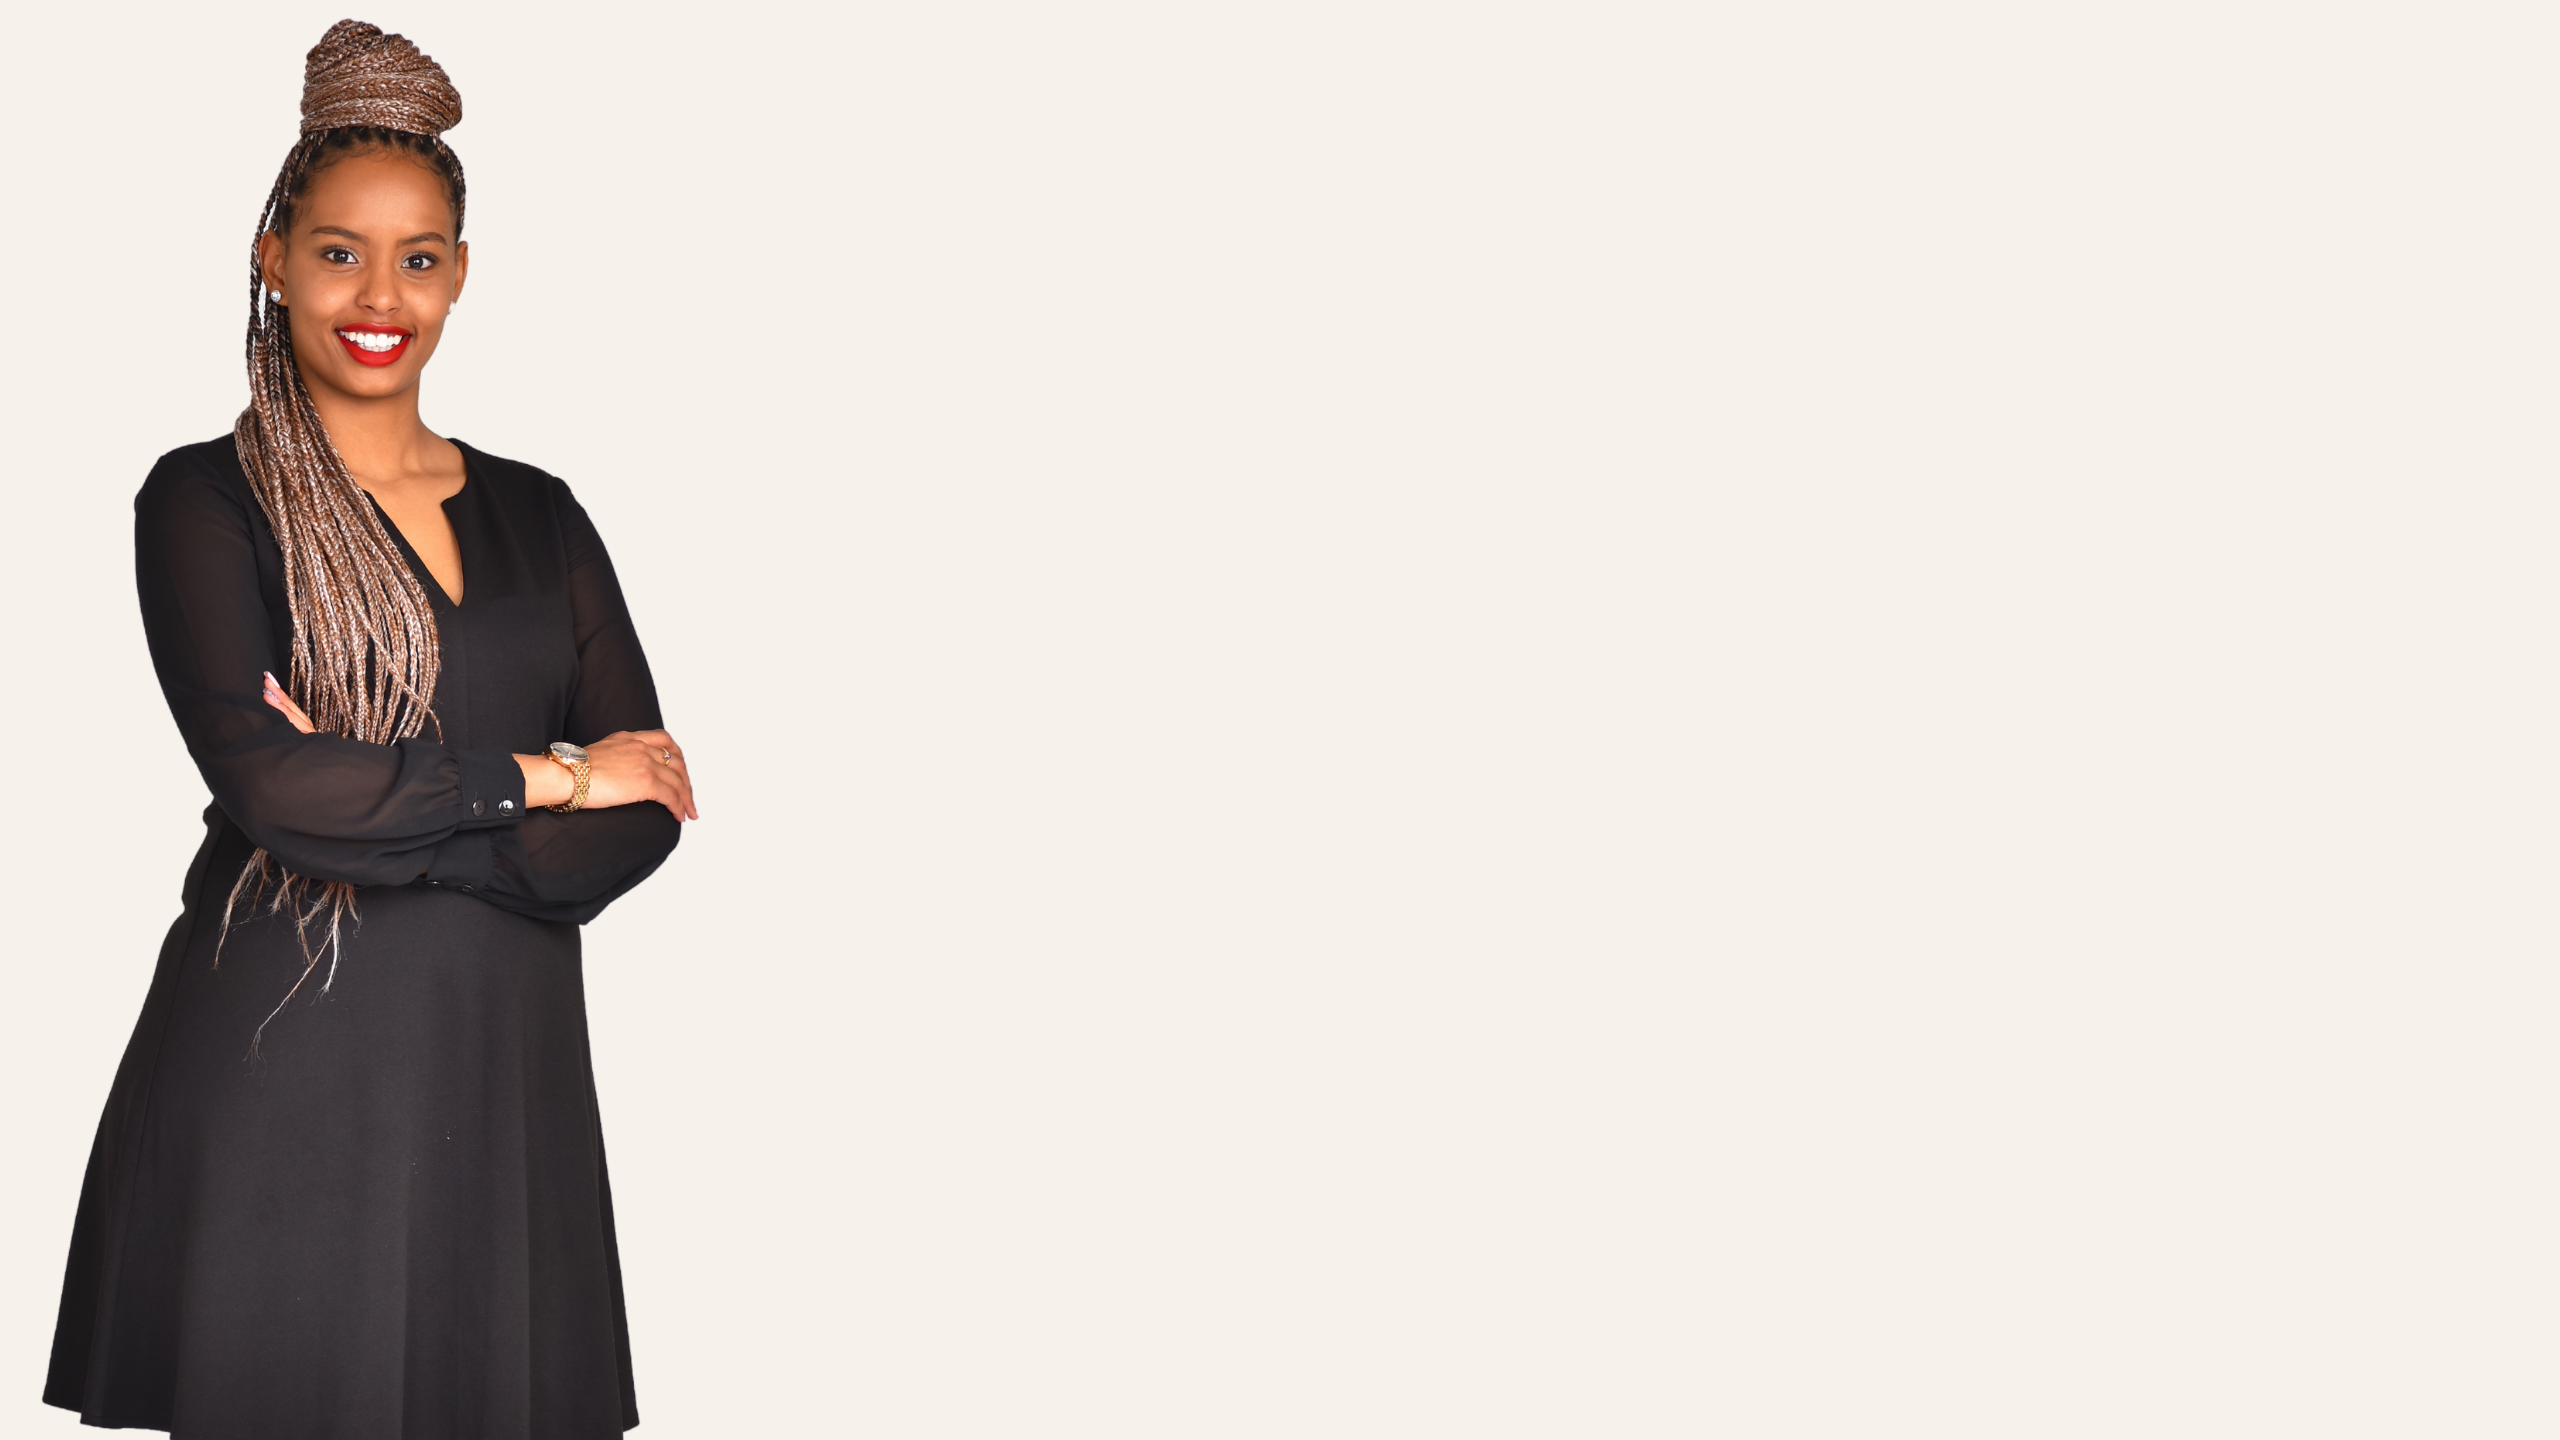
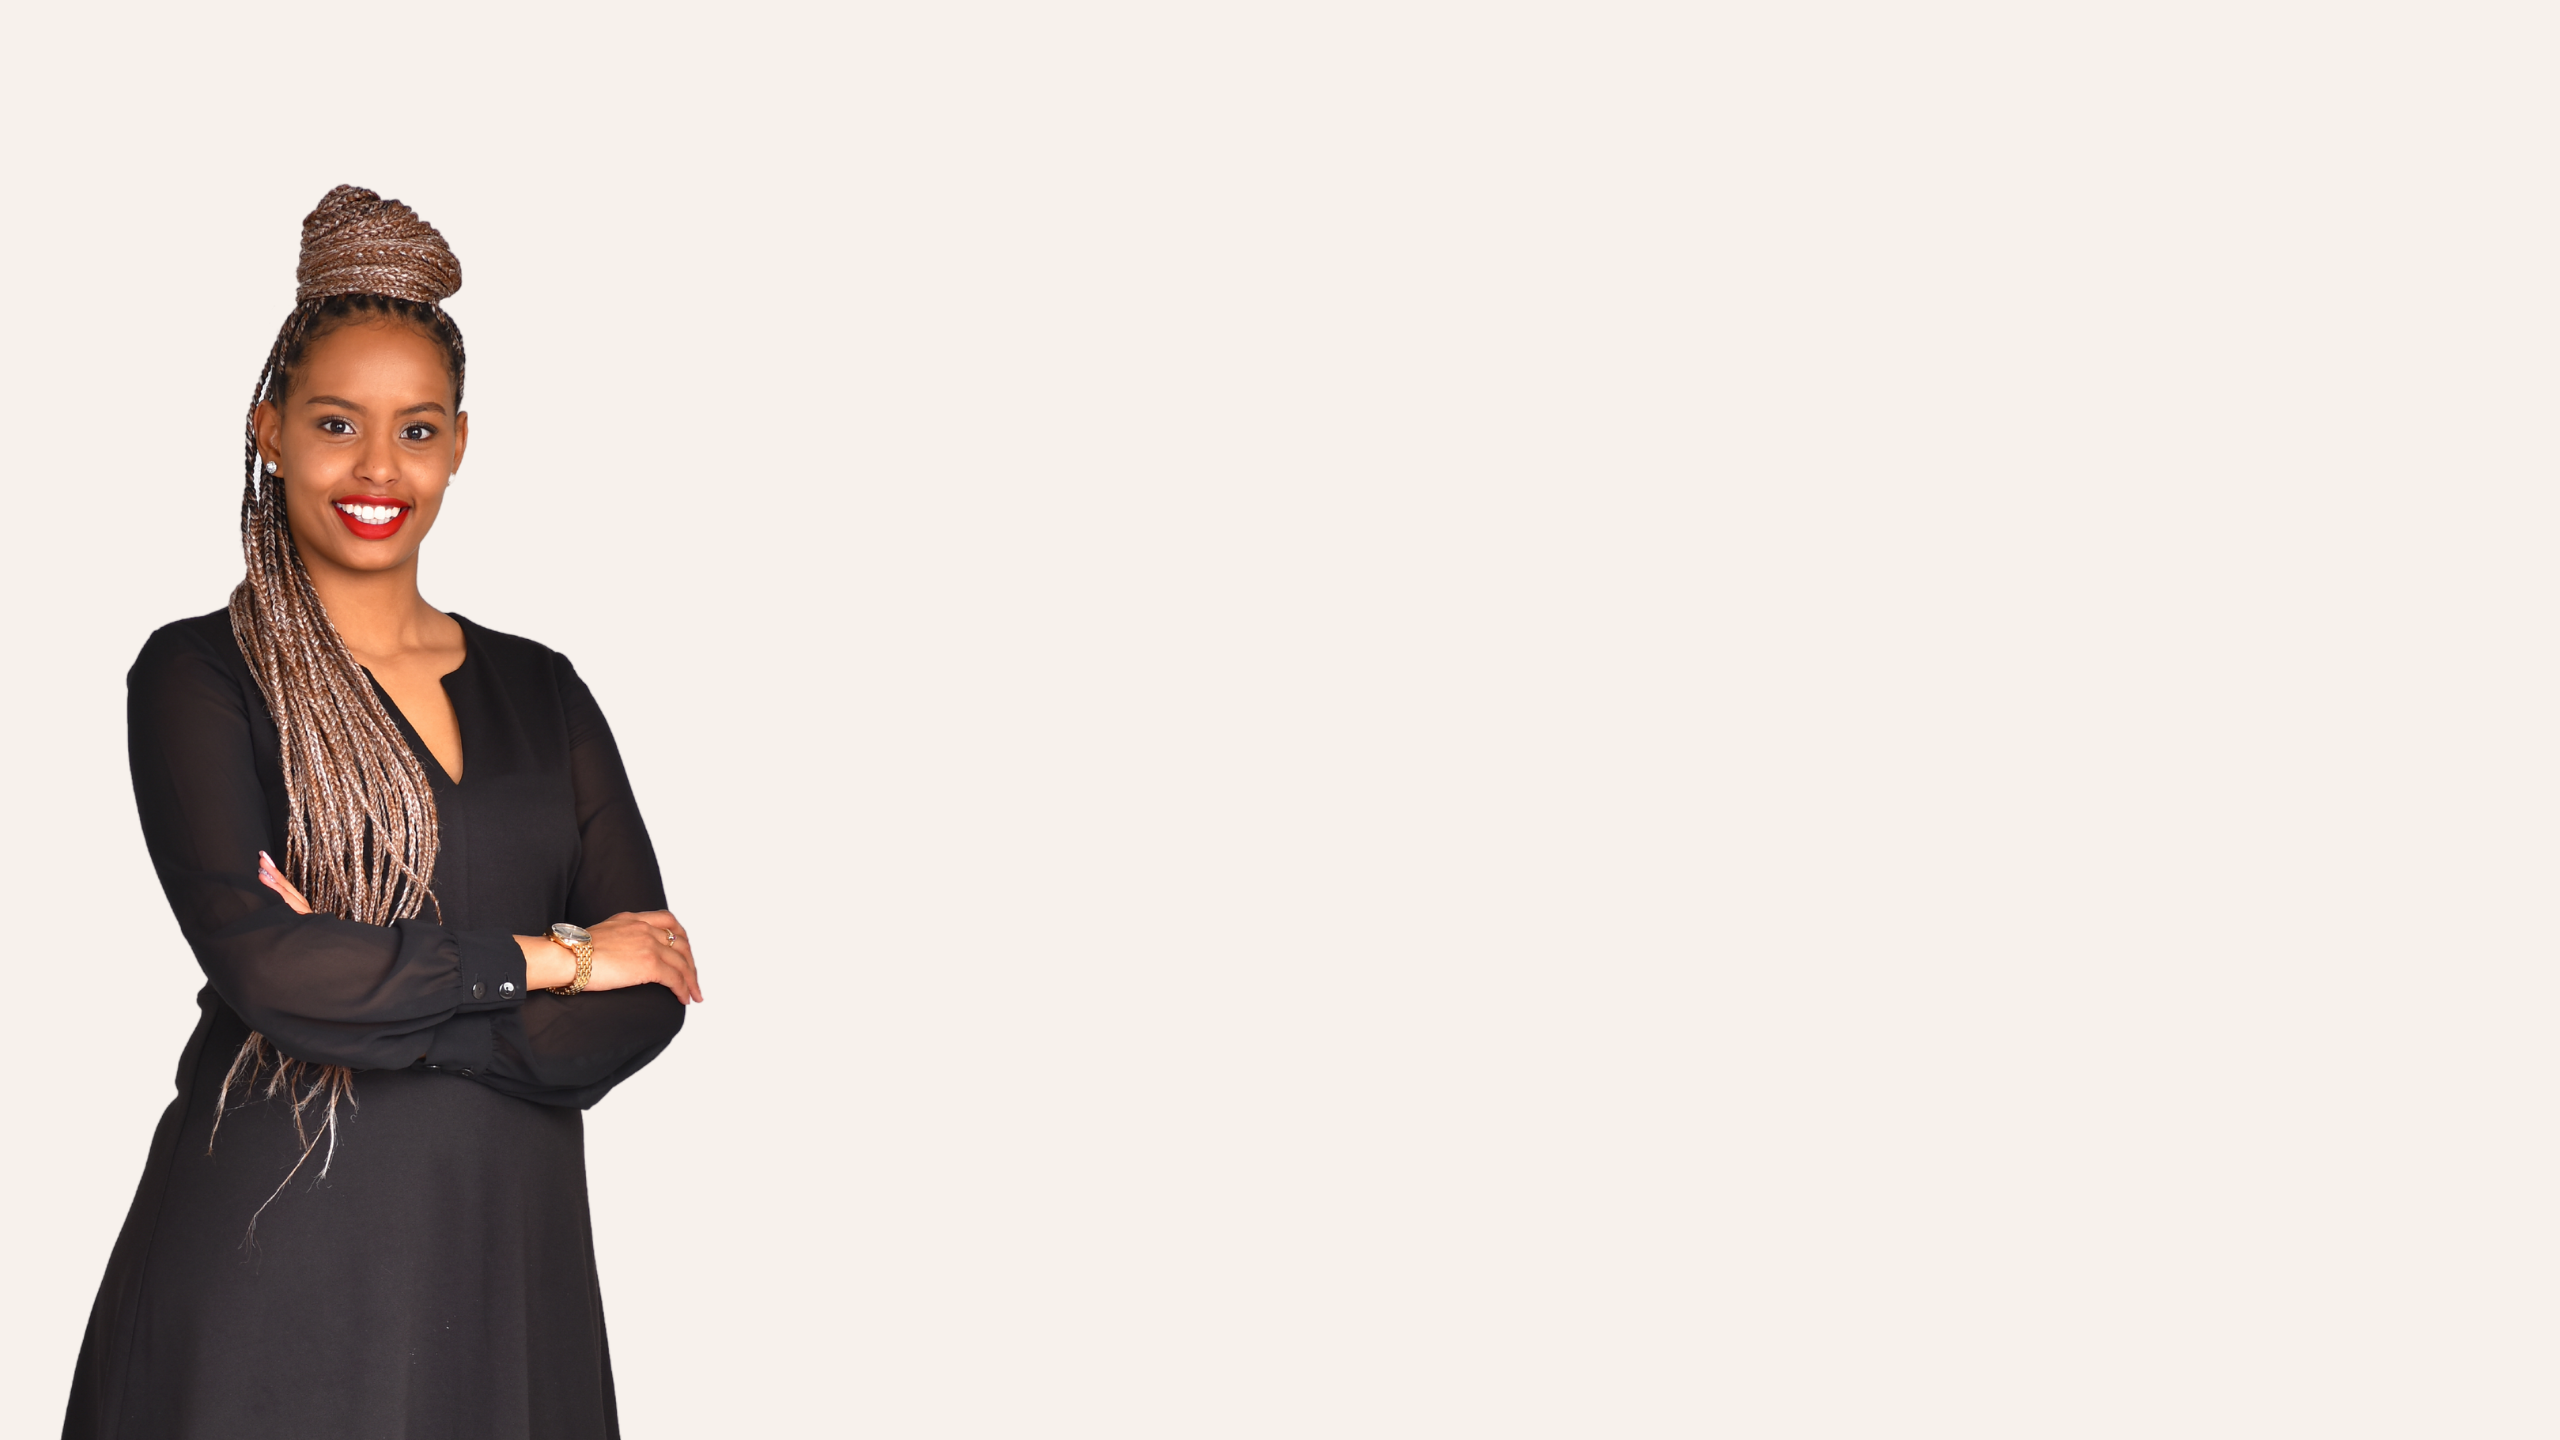
landing page image updated

Changed region(s): [[0.0, 0.0, 0.2812, 1.0]]

diff --git a/src/style.scss b/src/style.scss
@@ -23,7 +23,7 @@ p {
 }
 
 .bg-main-color {
-  background-color: $main-color;
+  background-color: $green-color;
 }
 
 .btn-primary {
@@ -64,7 +64,7 @@ p {
 
   .nav-link {
     line-height: 32px;
-    color: $main-color;
+    color: $green-color;
     margin-right: calc(50px / 2);
     margin-left: calc(50px / 2);
     font-size: 18px;
@@ -75,12 +75,17 @@ p {
 }
 
 .side-nav {
+  display: none;
   .nav-close {
-    background-color: $main-color;
+    background-color: $green-color;
     font-size: 30px;
     color: #fff;
     padding: 10px;
     margin-left: -40px;
+
+    &:hover {
+      background-color: $main-color;
+    }
   }
   .container {
     padding: 30px 100px 0px 30px;
@@ -137,7 +142,7 @@ p {
   background-image: url("./img/Figuring\ Finance\ Landing.png");
   background-repeat: no-repeat;
   height: 90vh;
-  background-size: 100% 100%;
+  background-size: cover;
   background-position: center;
 
   .homepage-content {
